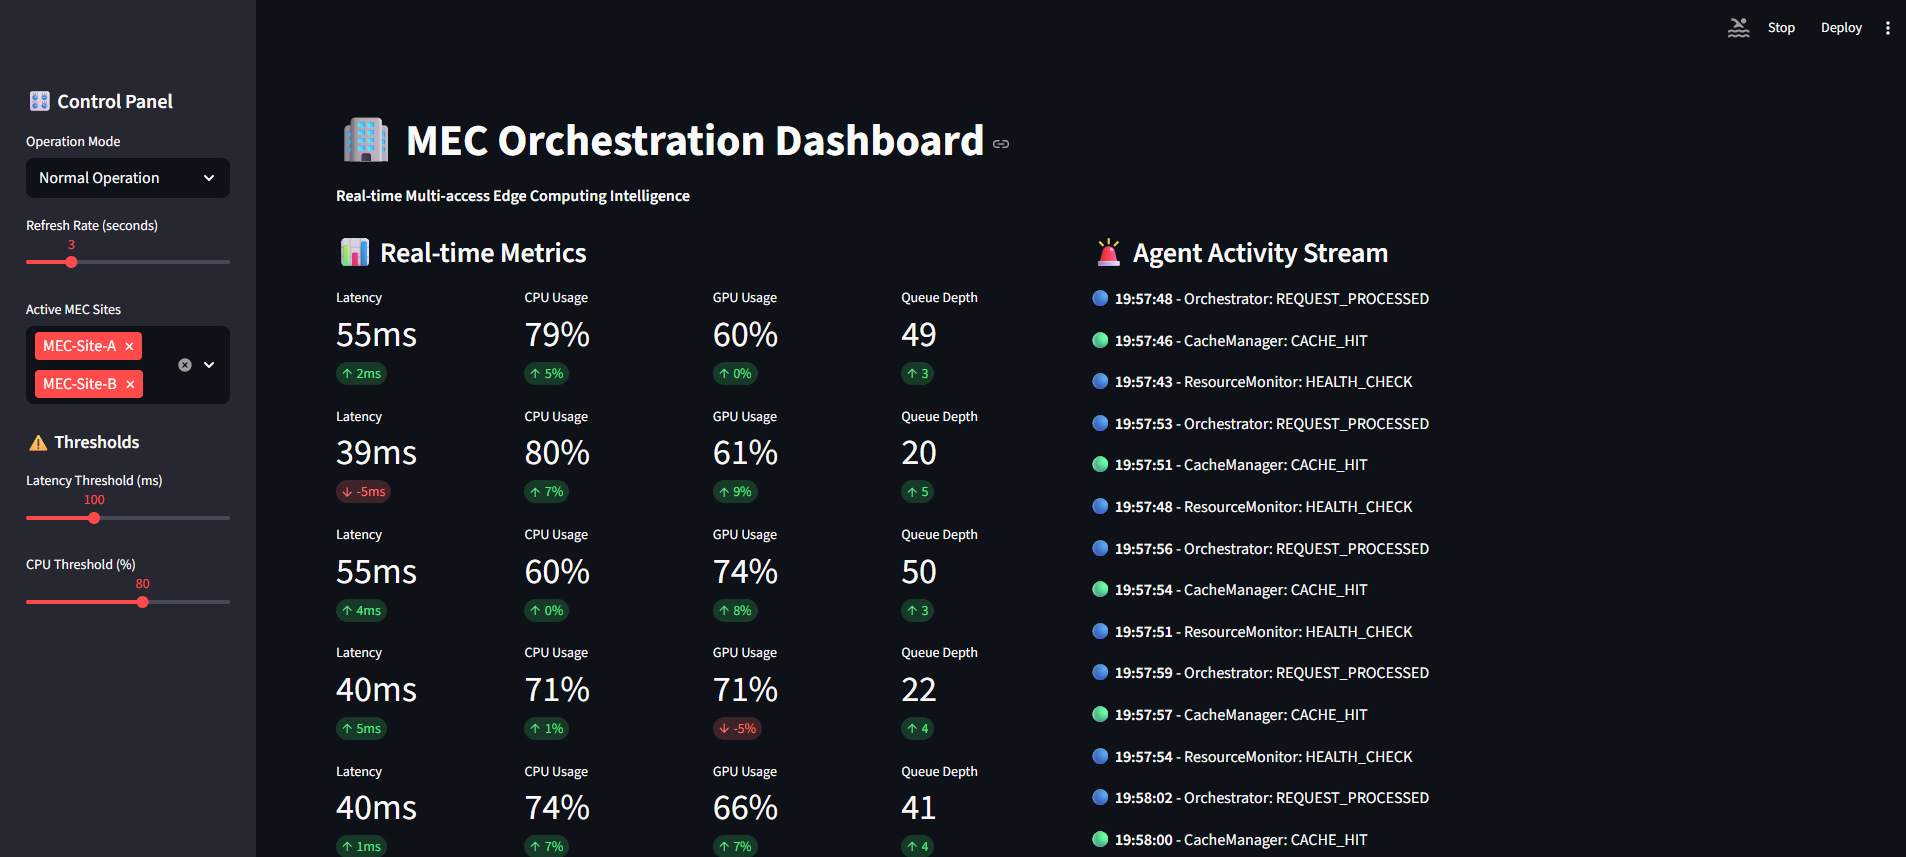
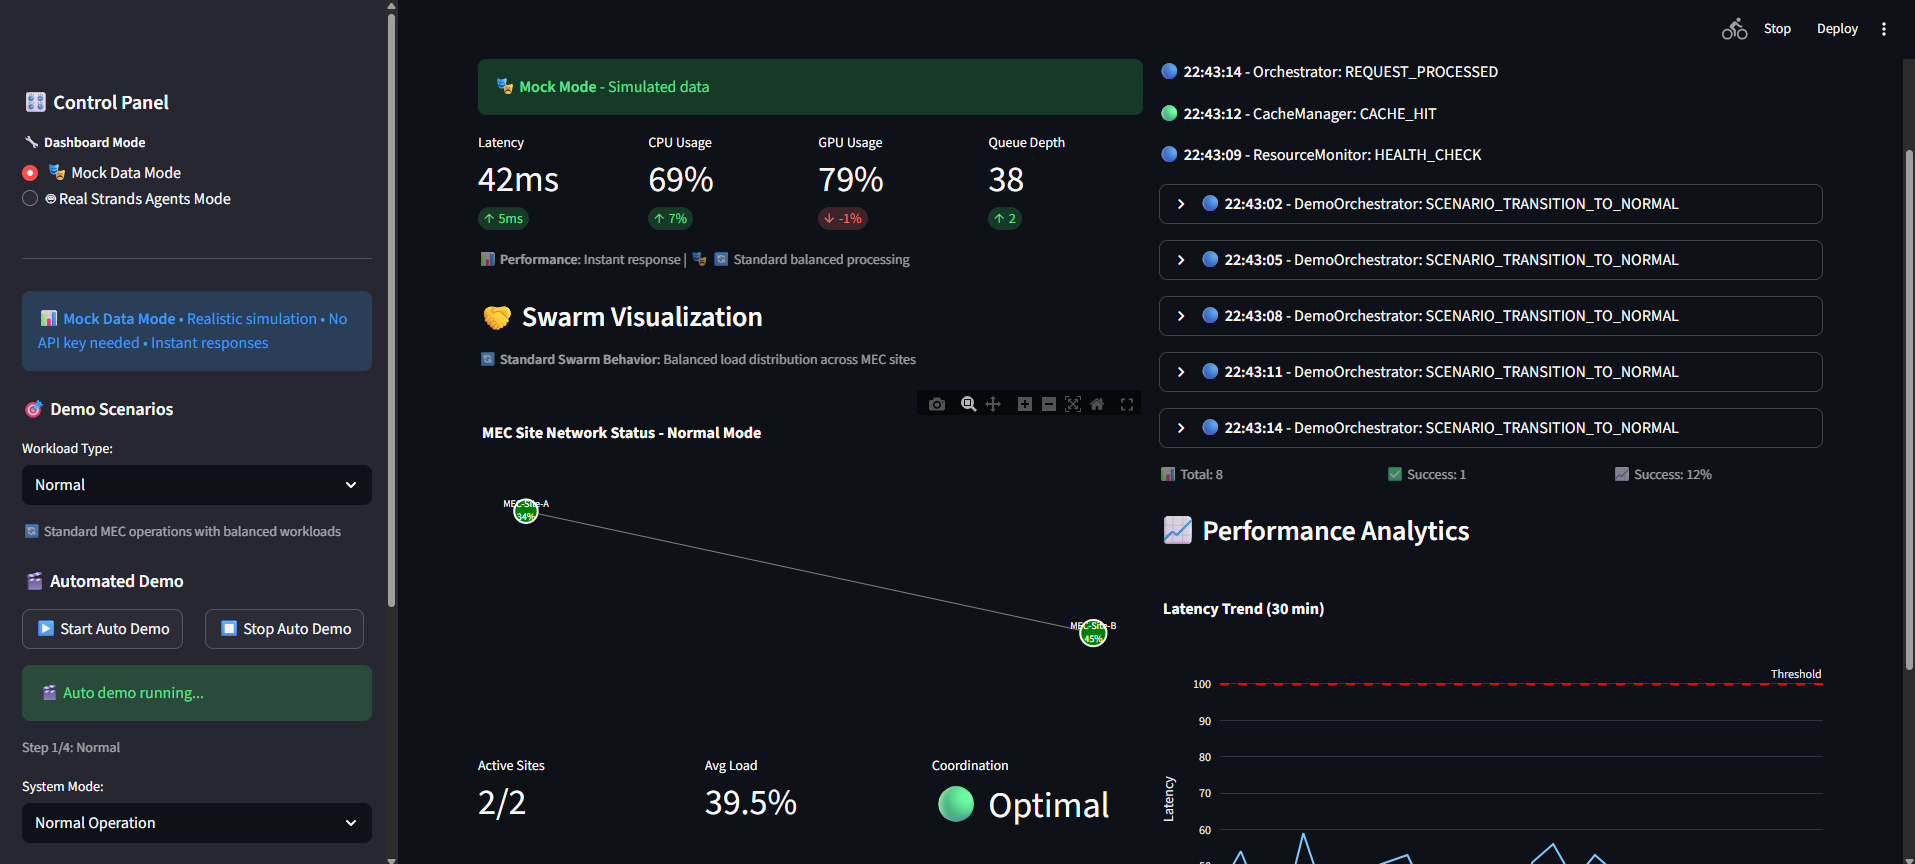
update: dashboard images to capture enhanced demo and agent convo capture

diff --git a/.kiro/specs/mec-inference-routing/tasks.md b/.kiro/specs/mec-inference-routing/tasks.md
@@ -270,15 +270,54 @@
   - Save as `architecture/enterprise_aws_deployment.md` with Mermaid diagram
   - _Requirements: 2.1_
 
-- [ ] 6. Enhance dashboard with demo scenarios and real-time integration
+- [x] 6. Add dual-mode dashboard for deployment accessibility (CRITICAL - Deployment Ready)
+
+  - **DEPLOYMENT FOCUS**: Enable public deployment where users can test without requiring their own Claude API key
+  - **USER EXPERIENCE**: Provide both simulation and real agent modes in single interface
+  - **API KEY MANAGEMENT**: Allow users to optionally enter their Claude API key for real agent testing
+  - Add mode selector in dashboard sidebar: "Mock Data Mode" vs "Real Strands Agents Mode"
+  - Implement secure API key input field (password-masked, session-only storage)
+  - Connect Real Strands Agents Mode to actual SwarmCoordinator and agents when API key provided
+  - Keep Mock Data Mode as default for users without API keys
+  - Add clear indicators showing which mode is active and what each mode provides
+  - _Requirements: 11.1, Deployment Readiness_
+
+- [x] 6.1 Implement dashboard mode selector and API key input
+
+  - Add radio button selector: "🎭 Mock Data Mode" vs "🤖 Real Strands Agents Mode"
+  - Create secure text input for Claude API key (st.text_input with type="password")
+  - Add mode descriptions: Mock = "Realistic simulation, no API needed" / Real = "Actual Claude agents, API required"
+  - Implement session state management for API key (never stored permanently)
+  - Add validation to test API key before switching to Real mode
+  - _Requirements: 11.1_
+
+- [x] 6.2 Connect Real mode to actual Strands agents
+
+  - Import and initialize SwarmCoordinator when Real mode selected with valid API key
+  - Replace generate_metrics_data() with real MCP tool calls in Real mode
+  - Replace generate_activity_data() with actual agent activity stream in Real mode
+  - Replace generate_swarm_data() with real SwarmCoordinator.mec_sites status in Real mode
+  - Add error handling for API failures with graceful fallback to Mock mode
+  - _Requirements: 11.1_
+
+- [x] 6.3 Add deployment-ready user experience enhancements
+
+  - Create clear onboarding instructions in dashboard sidebar
+  - Add "How to get Claude API key" link and instructions
+  - Implement loading states when switching between modes
+  - Add success/error notifications for mode switching
+  - Create demo scenarios that work in both Mock and Real modes
+  - Add performance comparison display: "Mock: Instant" vs "Real: ~2-5s (API calls)"
+  - _Requirements: 11.1, User Experience_
+
+- [x] 7. Enhance dashboard with demo scenarios and real-time integration
 
   - Implement gaming, automotive, healthcare scenario simulations in dashboard
-  - Connect dashboard to real SwarmCoordinator and ThresholdMonitor instances
-  - Replace mock data generation with actual agent activity and metrics
-  - Add scenario-specific threshold patterns and swarm behaviors
+  - Add scenario-specific threshold patterns and swarm behaviors for both Mock and Real modes
+  - Create automated demo sequences that showcase MEC orchestration capabilities
   - _Requirements: 4.1, 4.2, 4.3, 11.1_
 
-- [ ] 6.1 Connect dashboard to real system components
+- [x] 6.1 Connect dashboard to real system components
 
   - Replace mock data generators in dashboard with actual SwarmCoordinator integration
   - Connect dashboard metrics panel to real ThresholdMonitor events
@@ -286,7 +325,7 @@
   - Display real MEC site status from SwarmCoordinator.mec_sites in network visualization
   - _Requirements: 11.1_
 
-- [ ] 6.2 Implement demo scenario simulations
+- [x] 6.2 Implement demo scenario simulations
 
   - Create gaming scenario with NPC dialogue complexity patterns and threshold triggers
   - Build automotive scenario with safety-critical threshold breaches and failover testing
@@ -294,7 +333,7 @@
   - Integrate scenarios with dashboard mode selector for live demonstration
   - _Requirements: 4.1, 4.2, 4.3_
 
-- [ ] 6.3 Add automated demo mode and performance validation
+- [x] 6.3 Add automated demo mode and performance validation
 
   - Create demo orchestrator that cycles through scenarios automatically
   - Validate sub-100ms orchestration decision targets with real measurements
@@ -599,7 +638,40 @@
   - _Requirements: 6.1, 8.1_
 
 - [ ] 18.2 Prepare final submission package
+
   - Create complete submission package with code, documentation, and demo
   - Perform final code review and quality assurance
   - Validate all requirements are met and documented
   - _Requirements: 11.1_
+
+- [-] 7. Fix agent conversation capture in Real mode dashboard
+
+  - **ISSUE**: Agent conversations show placeholder text instead of actual Claude/Strands agent responses
+  - **CONTEXT**: Direct agent execution works and shows responses, but Streamlit dashboard integration is broken
+  - **GOAL**: Display actual agent reasoning, decisions, and LLM responses in Real mode conversation panel
+  - _Requirements: 6.1, Real Agent Integration_
+
+  - [x] 7.1 Debug agent conversation capture mechanism
+
+    - Investigate why `trigger_agent_conversation()` returns placeholder messages instead of real agent responses
+    - Check if SwarmCoordinator.activate_swarm() is properly capturing Strands agent conversations
+    - Verify that agent LLM responses are being logged and accessible in dashboard context
+    - Test direct agent execution vs dashboard integration to identify the disconnect
+    - _Requirements: 6.1_
+
+  - [x] 7.2 Implement proper agent response capture
+
+    - Modify trigger functions to capture actual Strands agent conversations and reasoning
+    - Extract real LLM responses from SwarmCoordinator and agent execution results
+    - Implement conversation parsing to show agent handoffs, decisions, and reasoning chains
+    - Add proper error handling for agent execution failures with detailed error messages
+    - _Requirements: 6.1, Agent Conversation Display_
+
+  - [x] 7.3 Enhance conversation display with agent reasoning
+
+    - Show actual agent-to-agent handoffs and communication in conversation panel
+    - Display LLM reasoning, decision rationale, and confidence scores from agents
+    - Add conversation threading to show how agents build on each other's responses
+    - Implement real-time streaming of agent conversations as they happen
+    - Add conversation export functionality for debugging and analysis
+    - _Requirements: 6.1, User Experience_
